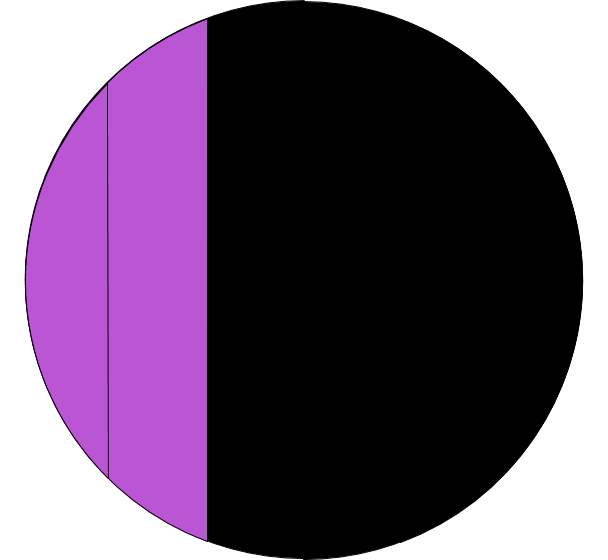
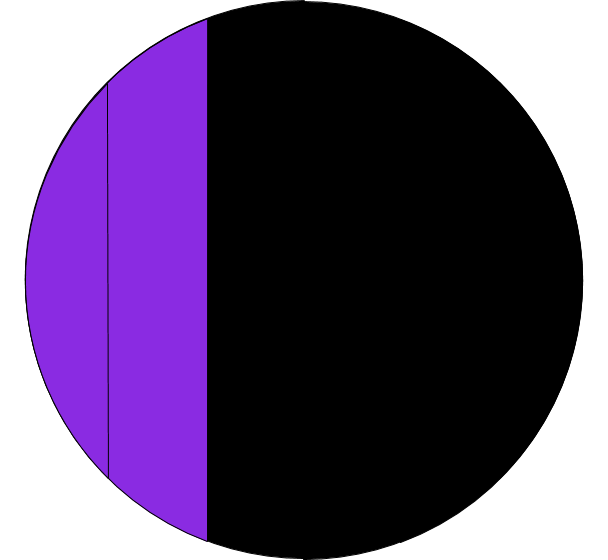
changed colors for snow/rain

Changed region(s): [[0.0312, 0.0304, 0.3438, 0.9714]]

diff --git a/src/lamp.py b/src/lamp.py
@@ -212,16 +212,16 @@ class WeatherLamp(Lamp):
         return True
 
     def show_precipitation(self, precip_percent=None, precip_type=None):
-        # TODO: Set color intensity by amount
+        # TODO: Set color intensity (or add a blink rate or other screen) by amount
         if precip_percent is None and precip_type is None:
             daily_precip = self._get_weather("precip")
             precip_percent = daily_precip["precip_percent"]
             precip_type = daily_precip["precip_type"]
 
         if precip_type == "snow":
-            base_color = (255, 20, 147)
+            base_color = (238, 130, 238)
         elif precip_type == "rain":
-            base_color = (186, 85, 211)
+            base_color = (138, 43, 226)
         else:
             base_color = (0, 0, 0)
 
@@ -232,7 +232,6 @@ class WeatherLamp(Lamp):
             for i in range(self.num_leds - len(colors)):
                 colors += [(0, 0, 0)]
         self.set_leds(colors, extra_info=f"{precip_type}={precip_percent}")
-        # TODO: Make a way to skip a screen if it has nothing to show (e.g. no rain/snow)
         if full_leds > 0:
             return True
         else:

diff --git a/README.md b/README.md
@@ -89,7 +89,7 @@ Example images:
 
 ## Precipitation
 This screen shows the type of precipitation and the probability for the day.
-Pink means snow and purple means rain and the number of sections that are lit up corresponds to the percent change
+Violet means snow and Blue-violet means rain and the number of sections that are lit up corresponds to the percent change
 of that happening for the day.
 If the percent of precipitation is very low (<8%), this screen will not show up.
 
